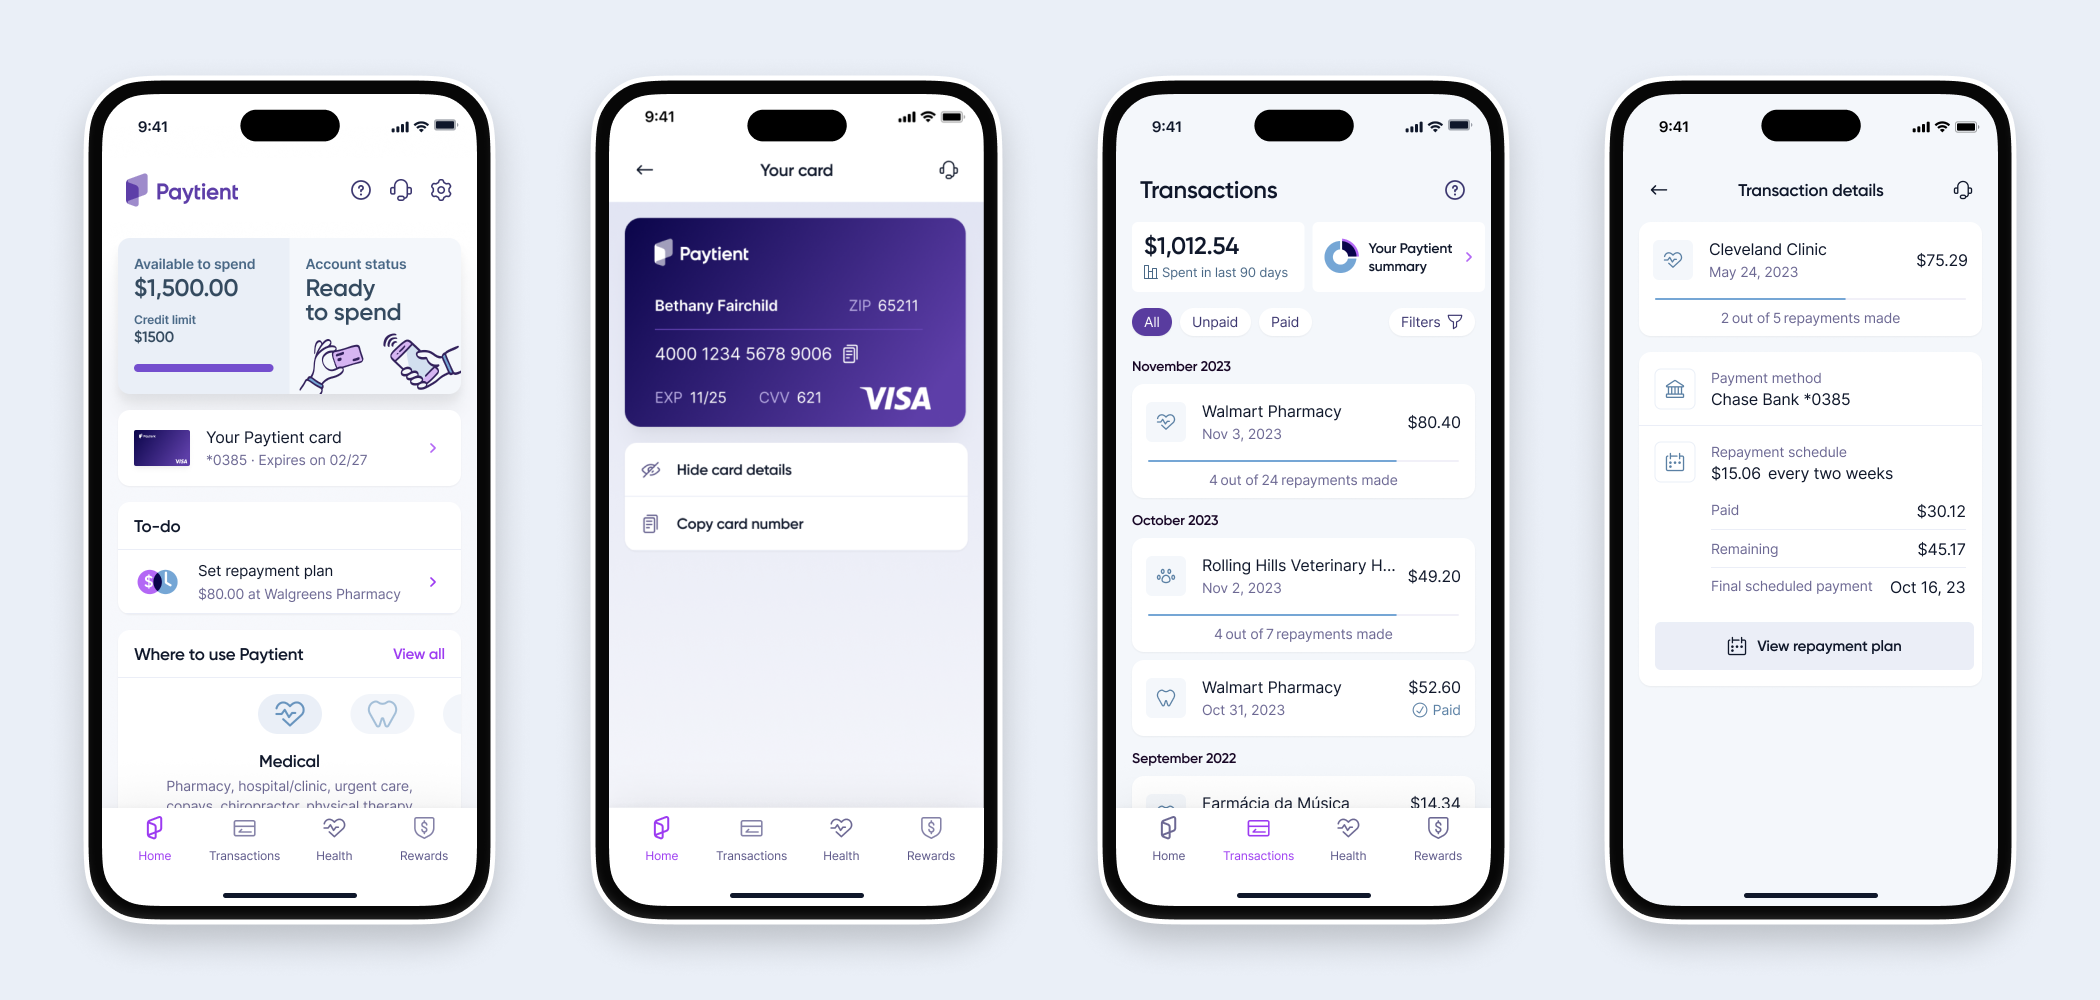
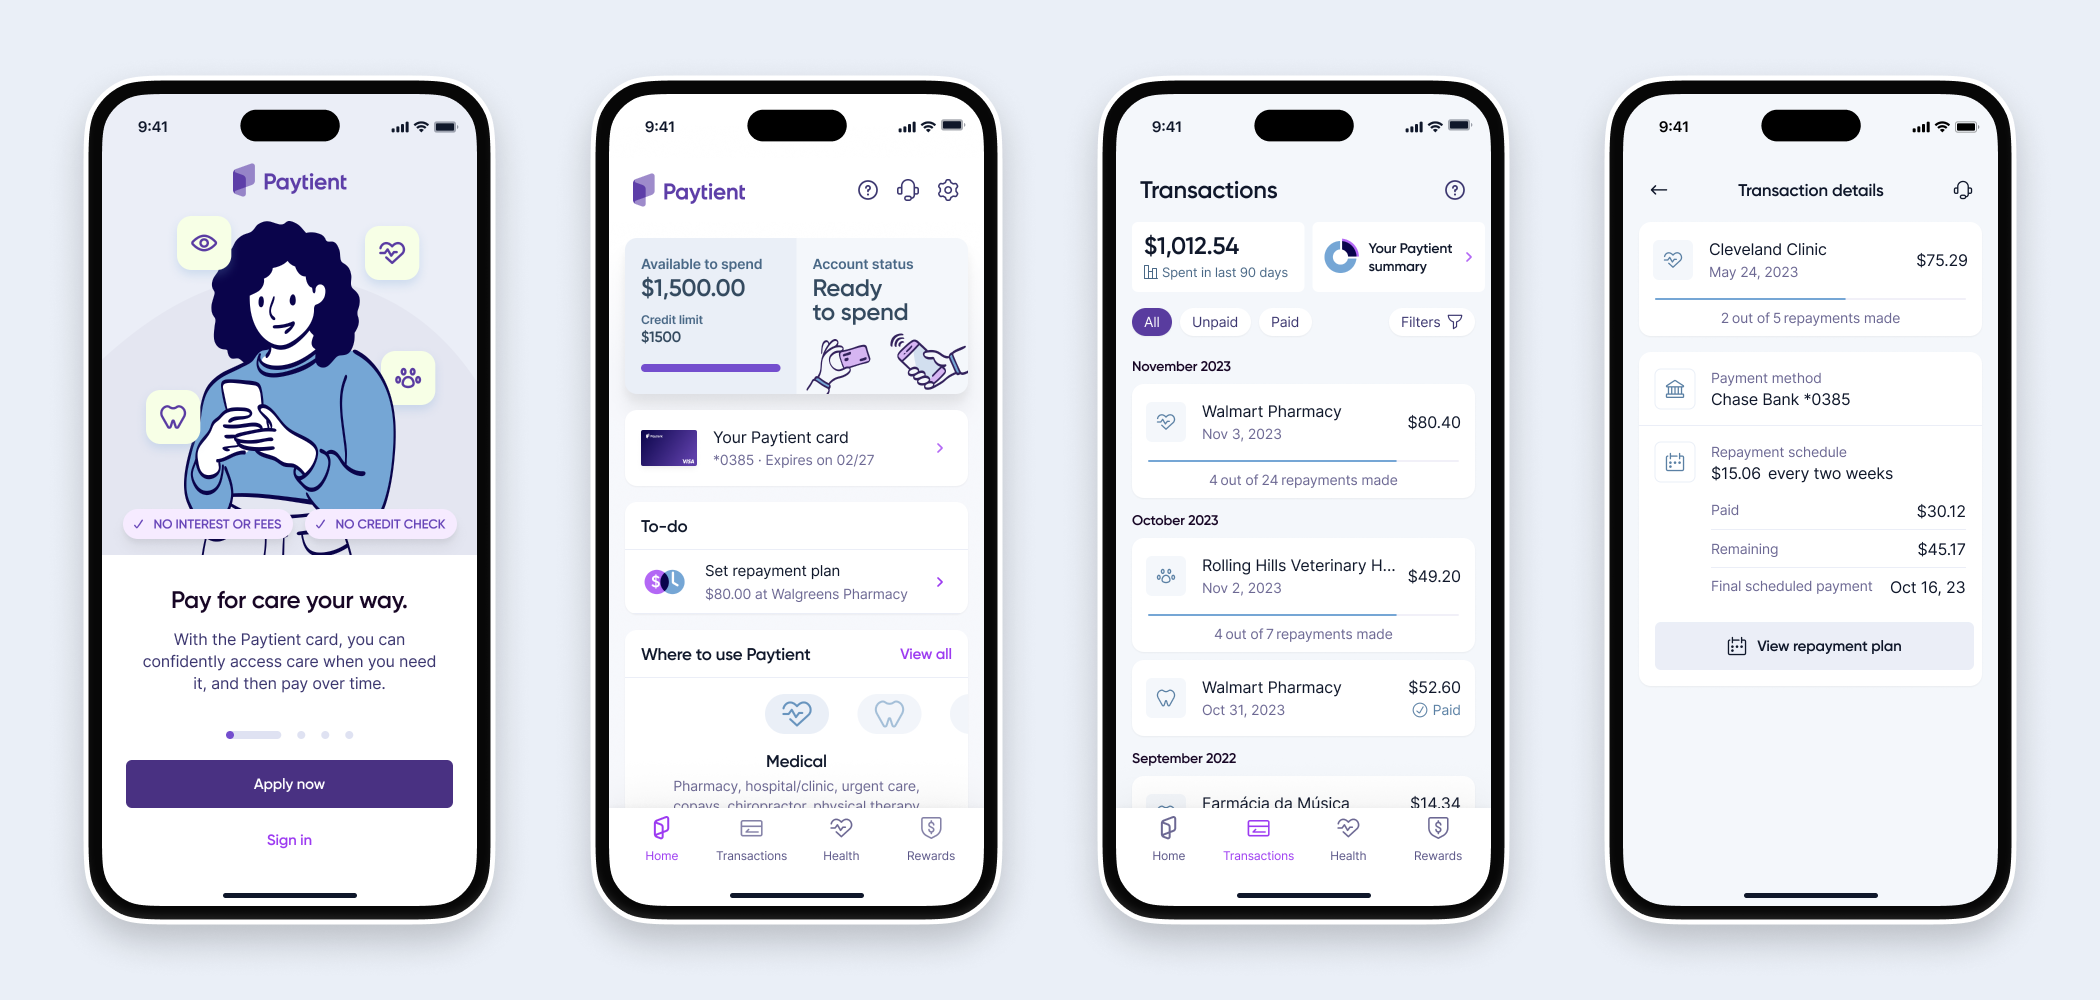
Update Paytient's v3 screens image

diff --git a/projects/paytient/index.html b/projects/paytient/index.html
@@ -152,7 +152,7 @@
             <div class="carousel__track" tabindex="0">
               <div class="carousel__slide" role="group" aria-roledescription="slide" aria-label="1 of 3" data-caption="Paytient MVP"><img src="/assets/img/projects/paytient/versions-1.png" width="2100" height="1000" alt="Paytient MVP: welcome, card, transactions and transaction detail screens" loading="lazy"></div>
               <div class="carousel__slide" role="group" aria-roledescription="slide" aria-label="2 of 3" data-caption="Paytient v2"><img src="/assets/img/projects/paytient/versions-2.png" width="2100" height="1000" alt="Paytient v2: home, card details, transactions and payment schedule screens" loading="lazy"></div>
-              <div class="carousel__slide" role="group" aria-roledescription="slide" aria-label="3 of 3" data-caption="Paytient v3"><img src="/assets/img/projects/paytient/versions-3.png" width="2100" height="1000" alt="Paytient v3: home, card, transactions and transaction detail screens" loading="lazy"></div>
+              <div class="carousel__slide" role="group" aria-roledescription="slide" aria-label="3 of 3" data-caption="Paytient v3"><img src="/assets/img/projects/paytient/versions-3.png" width="2100" height="1000" alt="Paytient v3: welcome, home, transactions and transaction details screens" loading="lazy"></div>
             </div>
             <button class="carousel__btn carousel__btn--prev" type="button" aria-label="Previous version"><svg viewBox="0 0 24 24" fill="none" aria-hidden="true"><path d="M15 6l-6 6 6 6" stroke="currentColor" stroke-width="1.75" stroke-linecap="round" stroke-linejoin="round"/></svg></button>
             <button class="carousel__btn carousel__btn--next" type="button" aria-label="Next version"><svg viewBox="0 0 24 24" fill="none" aria-hidden="true"><path d="M9 6l6 6-6 6" stroke="currentColor" stroke-width="1.75" stroke-linecap="round" stroke-linejoin="round"/></svg></button>
